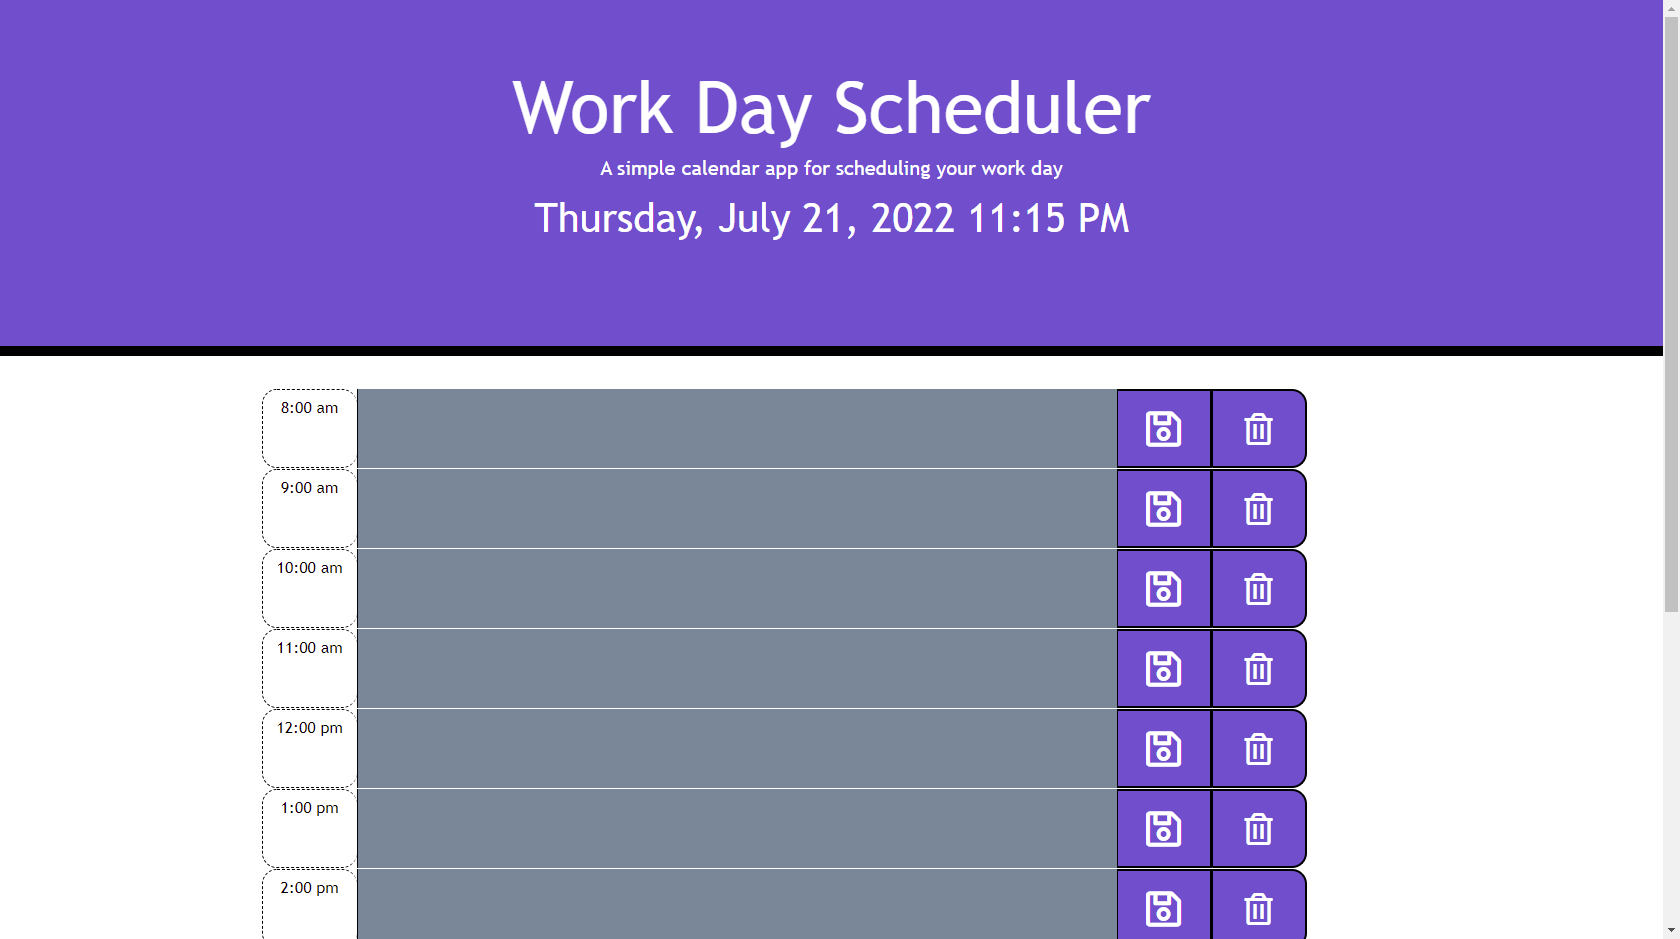
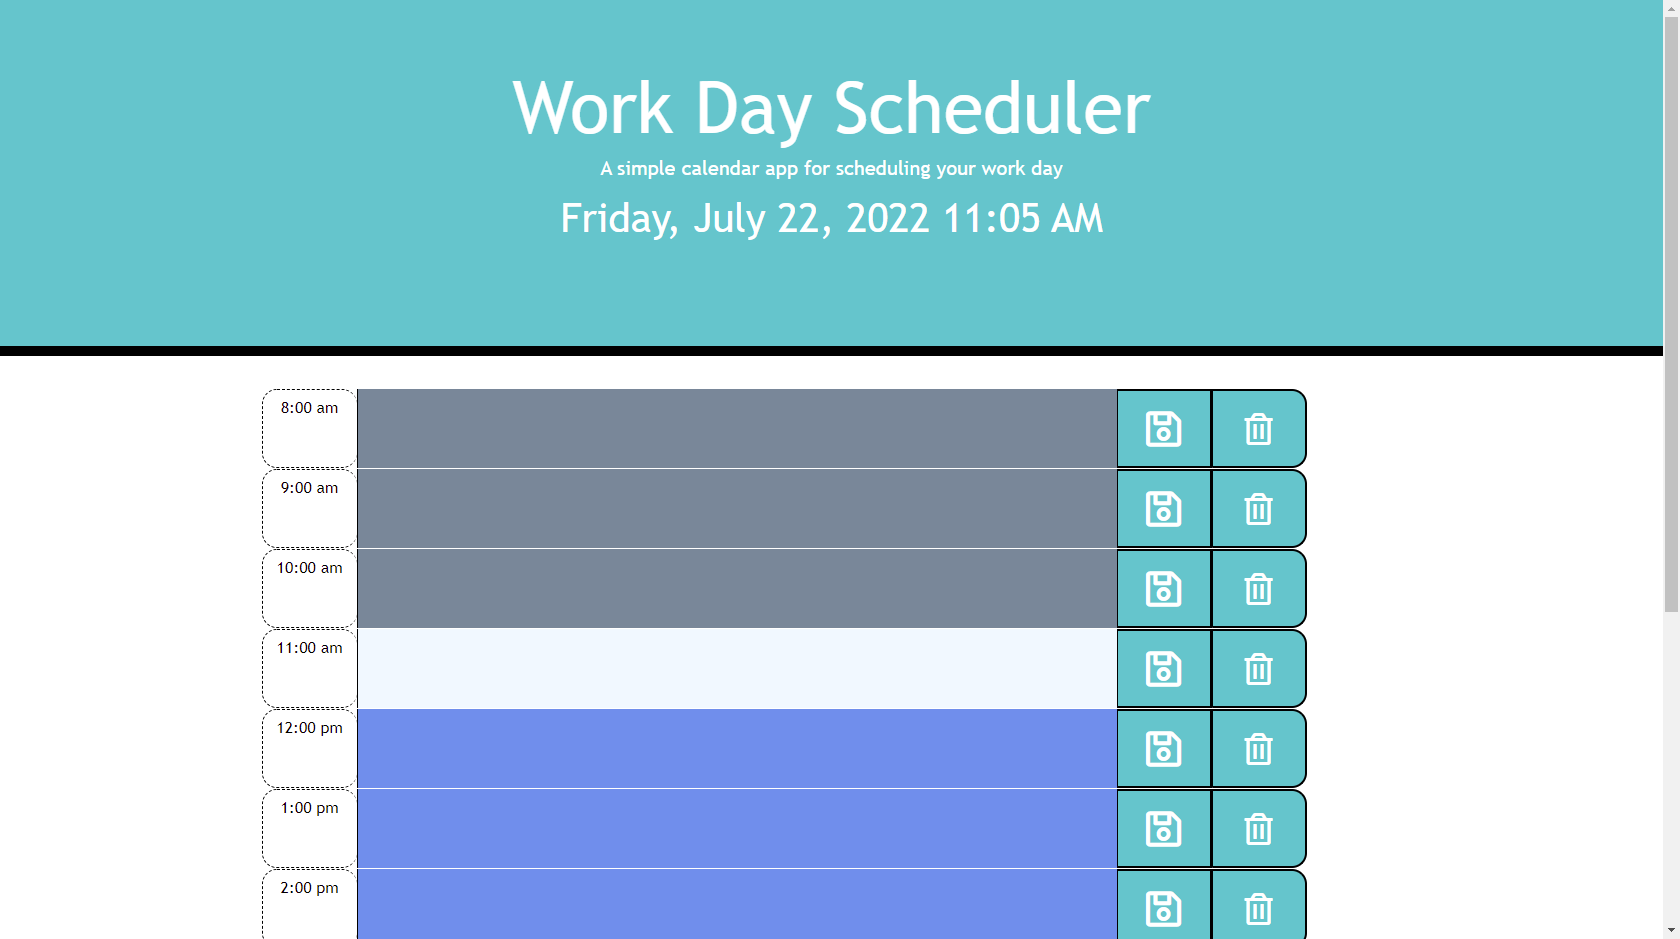
first initial commit

diff --git a/Assets/style.css b/Assets/style.css
@@ -15,7 +15,7 @@ textarea{
 
 .jumbotron {
   text-align: center;
-  background-color: slateblue;
+  background-color: rgb(90, 197, 205);
   color: white;
   border-radius: 0;
   border-bottom: 10px solid black;
@@ -68,14 +68,14 @@ h1 {
 /* Button styling */
 .completeBtn, .saveBtn {
   border-left: 1px solid black;
-  background-color: slateblue;
+  background-color: rgb(90, 197, 205);
   color: white;  
 }
 .deleteBtn {
   border-left: 1px solid black;
   border-top-right-radius: 15px;
   border-bottom-right-radius: 15px;
-  background-color: slateblue;
+  background-color: rgb(90, 197, 205);
   color: white;
 }
 

diff --git a/README.md b/README.md
@@ -11,10 +11,10 @@ A simple calendar application that allows a user to save events for each hour of
 ## URLs
 
 * Deployed Application: 
-    - [https://dylan-truong.github.io/](https://dylan-truong.github.io/)
+    - [https://github.com/mskippen/05-Work-Day-Scheduler](https://github.com/mskippen/05-Work-Day-Scheduler)
 
 * GitHub Repository:
-    - [https://github.com/Dylan-Truong/](https://github.com/Dylan-Truong/)
+    - [https://github.com/mskippen/05-Work-Day-Scheduler](https://github.com/mskippen/05-Work-Day-Scheduler)
 
 ## Screenshot
 
